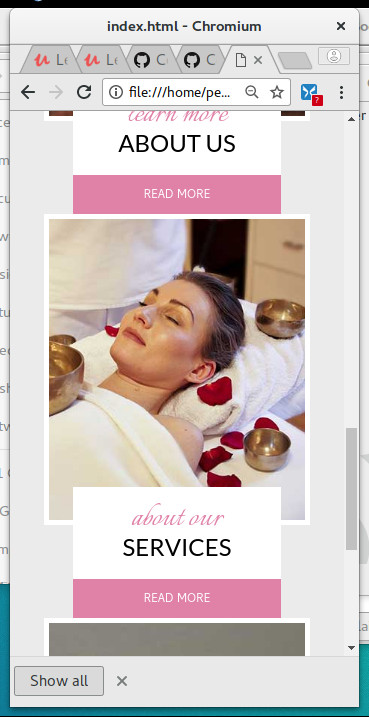
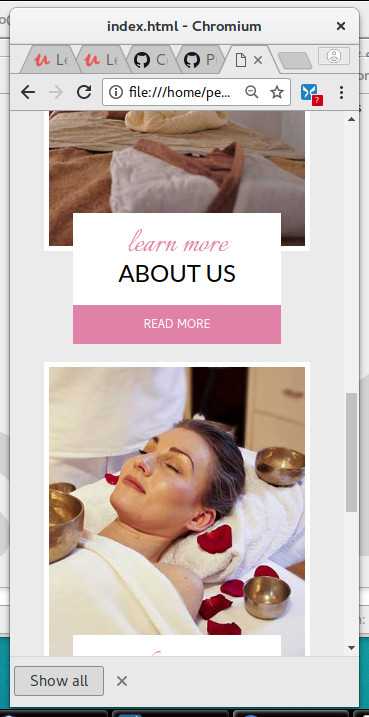
Put some spaces between image posts

diff --git a/index.html b/index.html
@@ -112,7 +112,7 @@
     
     <div class="container pb-5">
       <div class="row">
-        <div class="col-md-4 col-12 text-center">
+        <div class="col-md-4 col-12 text-center mb-4">
           <div class="image-links">
             <img src="img/service_01.jpg" alt="" class="img-fluid" />
             <div class="row no-gutters">
@@ -123,7 +123,7 @@
             </div>  
           </div>
         </div><!-- col-md-4 -->
-        <div class="col-md-4 col-12 text-center">
+        <div class="col-md-4 col-12 text-center mb-4">
           <div class="image-links">
             <img src="img/service_02.jpg" alt="" class="img-fluid" />
             <div class="row no-gutters">
@@ -134,7 +134,7 @@
             </div>  
           </div>
         </div><!-- col-md-4 -->
-        <div class="col-md-4 col-12 text-center">
+        <div class="col-md-4 col-12 text-center mb-4">
           <div class="image-links">
             <img src="img/service_03.jpg" alt="" class="img-fluid" />
             <div class="row no-gutters">
